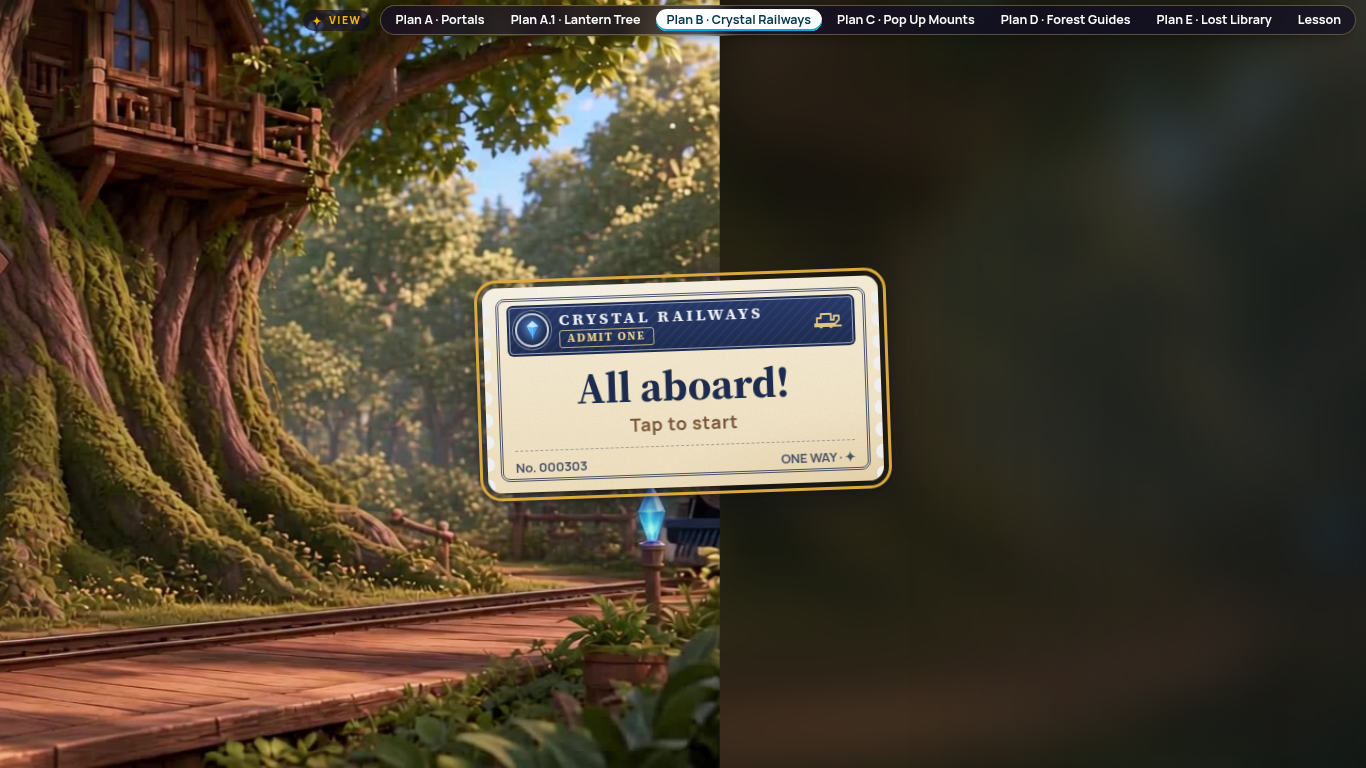
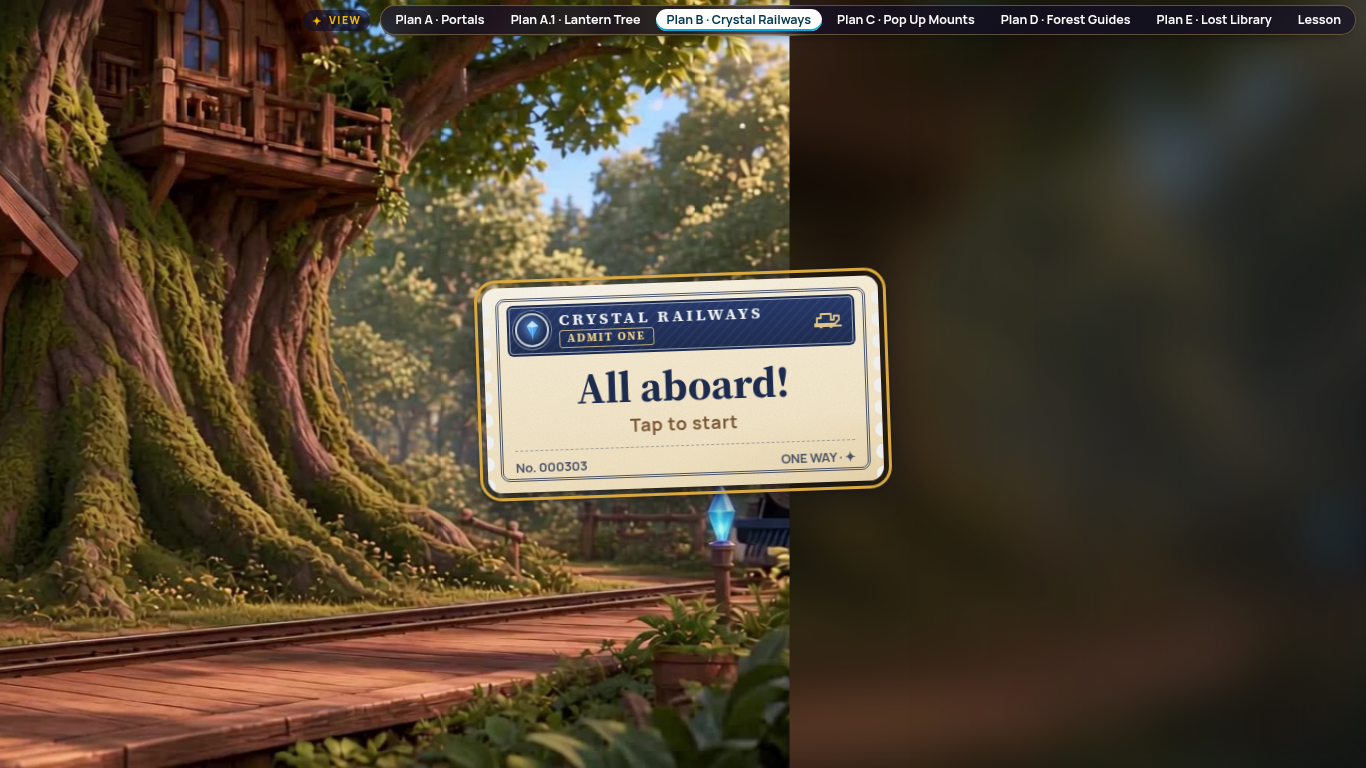
Plan A.1: goal tile top-right (always shown), Go for all six lanterns (no coming-soon), fixed-size bottom row

diff --git a/public/dashboard-a1/common.css b/public/dashboard-a1/common.css
@@ -12,10 +12,9 @@
 .lantern.on { background:radial-gradient(closest-side, color-mix(in srgb,var(--c) 55%,transparent), transparent); box-shadow:0 0 0 3px var(--c), 0 0 44px 12px color-mix(in srgb,var(--c) 70%,transparent); }
 .bar { position:absolute; left:12px; right:12px; bottom:12px; padding:6px; display:none; align-items:center; gap:6px; border-radius:14px; box-sizing:border-box;
   background:rgba(20,83,140,.45); -webkit-backdrop-filter:blur(10px); backdrop-filter:blur(10px); border:1px solid rgba(255,255,255,.22); }
-.goaltile { position:absolute; left:50%; bottom:14px; transform:translateX(-50%); height:34px; display:flex; align-items:center; padding:0 16px; border-radius:12px;
+.goaltile { position:absolute; right:12px; top:44px; box-sizing:border-box; height:34px; display:flex; align-items:center; padding:0 16px; border-radius:12px;
   background:rgba(20,83,140,.38); -webkit-backdrop-filter:blur(6px); backdrop-filter:blur(6px); border:1px solid rgba(255,255,255,.22); font-size:14px; font-weight:600; white-space:nowrap; }
 .goaltile b { color:#f5b400; font-weight:800; letter-spacing:.08em; font-size:11px; margin-right:8px; text-transform:uppercase; }
-.sel .goaltile { display:none; }
 .bar.show { display:flex; }
 .tile { flex:1 1 0; min-width:0; box-sizing:border-box; height:30px; padding:0 8px !important; display:flex; align-items:center; gap:8px; padding:0 10px; border-radius:11px; border:2px solid var(--c); background:rgba(255,255,255,.12);
   color:#fff; font:600 12px "Source Serif 4",serif; cursor:pointer; white-space:nowrap; overflow:hidden; }
@@ -37,3 +36,6 @@
 @keyframes pulse { 50% { box-shadow:0 0 30px 6px rgba(6,170,222,.55); } }
 .toast { position:absolute; left:50%; bottom:40px; transform:translateX(-50%); padding:10px 20px; border-radius:14px; background:rgba(20,83,140,.9); font:700 15px Manrope; display:none; }
 .empty { position:absolute; inset:0; display:flex; flex-direction:column; align-items:center; justify-content:center; gap:10px; font:700 30px "Source Serif 4"; }
+
+.tile { text-overflow:ellipsis; } .bar { height:44px; }
+.bg.blur { filter:blur(6px) brightness(.8); transform:scale(1.04); }

diff --git a/public/dashboard-a1/index.html b/public/dashboard-a1/index.html
@@ -7,7 +7,7 @@
 <div class="strip"><h1>Astra's Writing Adventure</h1></div>
 <div id="lanterns"></div>
 <div class="goaltile"><b>Today's goal</b>Back up every answer with evidence from the text.</div>
-<div class="bar" id="bar"><div id="tiles" style="display:flex;gap:6px;flex:1;min-width:0"></div><div id="act"></div></div>
+<div class="bar" id="bar"><div id="tiles" style="display:flex;gap:6px;flex:1;min-width:0"></div><div id="act" style="width:104px;flex:none"></div></div>
 </div>
 <script src="stage-fit.js"></script><script src="worlds.js"></script>
 <script>
@@ -21,8 +21,8 @@
   });
   function pick(i){ sel=i; bar.classList.add("show"); document.getElementById("frame").classList.add("sel");
     [].forEach.call(L.children,function(e,j){e.classList.toggle("on",j===i)}); [].forEach.call(tiles.children,function(e,j){e.classList.toggle("on",j===i)});
-    var w=W[i]; act.innerHTML = w.art ? '<button class="go">Go ›</button>' : '<div class="soon"><b>Coming soon!</b>Astra is still exploring</div>';
-    if(w.art) act.firstChild.onclick=function(){ location.href="world.html?w="+w.id; };
+    var w=W[i]; act.innerHTML = '<button class="go">Go ›</button>';
+    act.firstChild.onclick=function(){ location.href="world.html?w="+w.id; };
   }
   var q=new URLSearchParams(location.search).get("m"); if(q){ W.forEach(function(w,i){ if(w.id===q) pick(i); }); }
 })();

diff --git a/public/dashboard-a1/world.html b/public/dashboard-a1/world.html
@@ -12,9 +12,9 @@
   if(w.art){ h='<img class="bg" src="'+w.art+'" alt="">'+h;
     w.crystals.forEach(function(c,i){ h+='<a class="crystal" style="left:'+c[0]+'px;top:'+c[1]+'px" href="'+(i===0?'../demo/lesson/':'#')+'" data-l="'+(i+1)+'"><span>Lesson '+(i+1)+'</span></a>'; });
     h+='<div class="toast" id="toast"></div>';
-  } else h+='<div class="empty">Coming soon!<small style="font:600 16px Manrope">Astra is still exploring '+w.name+'.</small></div>';
+  } else h='<img class="bg blur" src="tree.jpg" alt="">'+h;
   f.innerHTML=h;
   [].forEach.call(f.querySelectorAll('.crystal[href="#"]'),function(a){ a.onclick=function(e){ e.preventDefault(); var t=document.getElementById("toast");
-    t.textContent="Lesson "+a.dataset.l+" is coming soon!"; t.style.display="block"; clearTimeout(t._h); t._h=setTimeout(function(){t.style.display="none"},2200); }; });
+    t.textContent="Lesson "+a.dataset.l+" isn't open yet. Try Lesson 1!"; t.style.display="block"; clearTimeout(t._h); t._h=setTimeout(function(){t.style.display="none"},2200); }; });
 })();
 </script></body></html>
